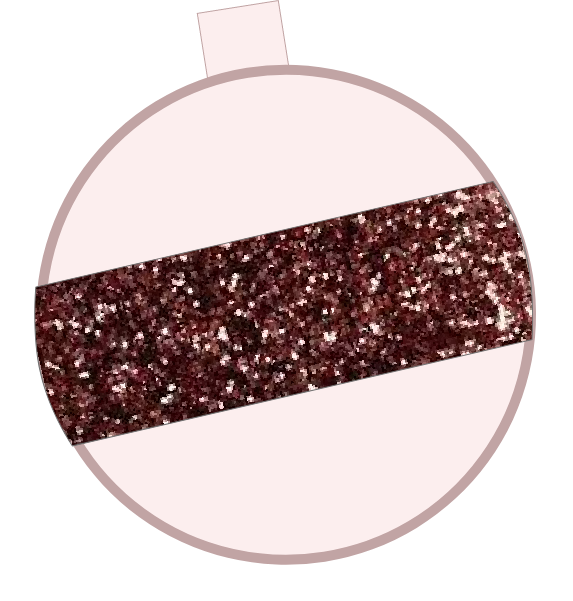
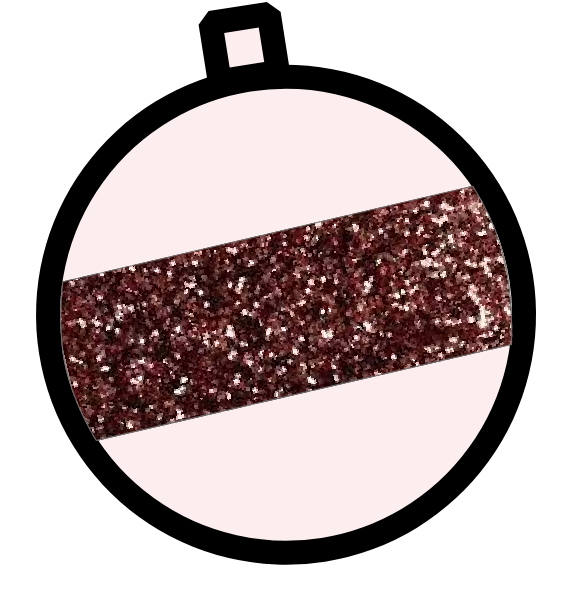
New + edited baubles

Changed region(s): [[0.0593, 0.0, 0.9494, 0.9584]]

diff --git a/index.html b/index.html
@@ -4,7 +4,8 @@
     <meta charset="UTF-8">
     <meta http-equiv="X-UA-Compatible" content="IE=edge">
     <meta name="viewport" content="width=device-width, initial-scale=1.0">
-    <title>Christmas tree decorating</title>
+    <link rel="icon" href="images/bauble4.png" type="image/png">
+    <title>A very girly christmas</title>
     <link rel="stylesheet" href="css/stylesheet.css">
 </head>
 <body>
@@ -13,6 +14,10 @@
         <img src="images/bauble2.png" alt="Bauble" class="bauble" data-bauble="2">
         <img src="images/bauble3.png" alt="Bauble" class="bauble" data-bauble="3">
         <img src="images/bauble4.png" alt="Bauble" class="bauble" data-bauble="4">
+        <img src="images/bauble5.png" alt="Bauble" class="bauble" data-bauble="5">
+        <img src="images/bauble6.png" alt="Bauble" class="bauble" data-bauble="6">
+        <img src="images/bauble7.png" alt="Bauble" class="bauble" data-bauble="7">
+        <img src="images/bauble8.png" alt="Bauble" class="bauble" data-bauble="8">
     </div>
     <svg class="tree" xmlns="http://www.w3.org/2000/svg" width="528.604" height="709.491" viewBox="0 0 528.604 709.491">
         <g id="christmas-tree" transform="translate(-295.424 -53.509)">
